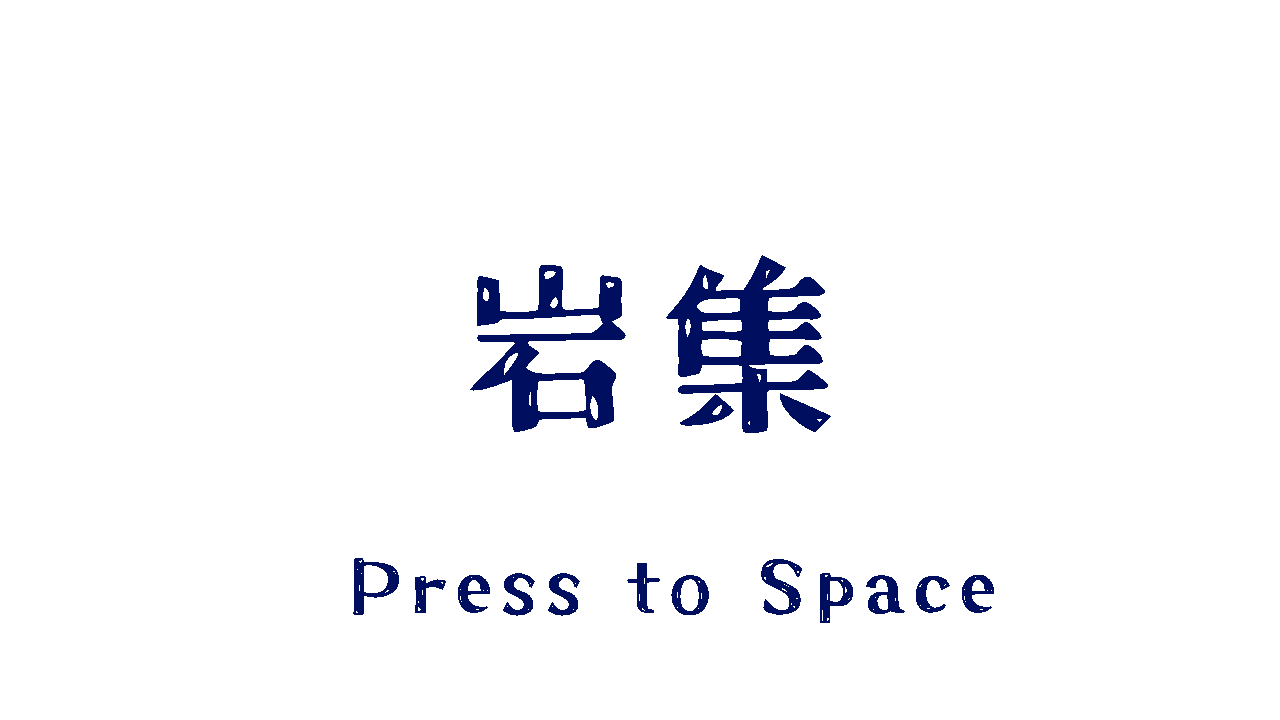
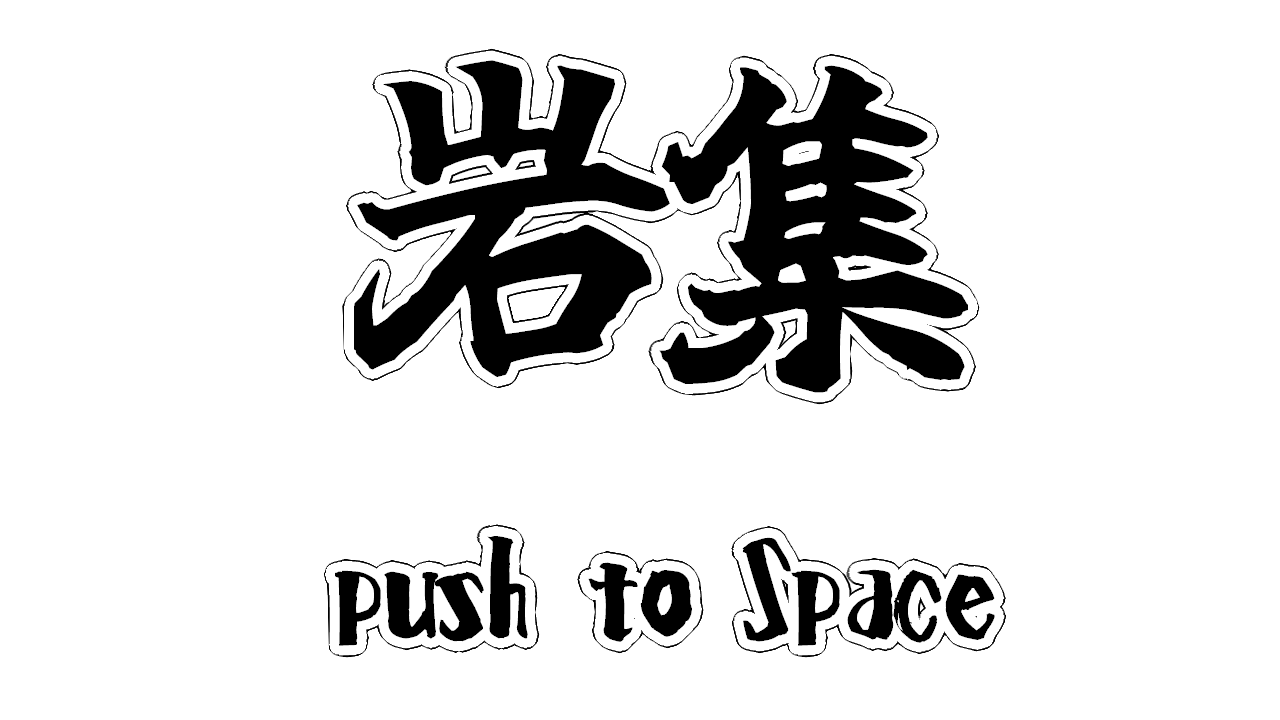
クリア画面、ゲームオーバー画面

Changed region(s): [[0.25, 0.0611, 0.7812, 0.6111], [0.25, 0.7333, 0.7812, 0.9167]]

diff --git a/project/App/Scene/GameOverScene/GameOverScene.cpp b/project/App/Scene/GameOverScene/GameOverScene.cpp
@@ -1,0 +1,67 @@
+#include "GameOverScene.h"
+
+GameOverScene::GameOverScene() {
+}
+
+GameOverScene::~GameOverScene() {
+}
+
+void GameOverScene::Initialize(DxCommon* dxCommon, PSOManager* psoManager, TextureManager* textureManager, Input* input) {
+	// 基盤ポインタの保存
+	dxCommon_ = dxCommon;
+	psoManager_ = psoManager;
+	textureManager_ = textureManager;
+	input_ = input;
+	// シーンのセットと初期化
+	nowScene_ = SceneLabel::Gameover;
+	isFinish_ = false;
+
+	// Camera
+	camera_ = std::make_unique<Camera>();
+	camera_->Initialize();
+	camera_->SetTransform({ {1.0f, 1.0f, 1.0f}, {0.2f,0.0f,0.0f}, {0.0f,4.0f,-20.0f} });
+
+	// DirectionalLight
+	dirLight_ = std::make_unique<DirectionalLightObject>();
+	dirLight_->Initialize(dxCommon_->GetDevice());
+
+	// スプライト生成
+	gameOver_ = std::make_unique<SpriteObject>(dxCommon_->GetDevice(), 1280, 720);
+	textureManager_->LoadTexture("gameOver", "resources/AL/gameOver.png");
+
+	// Skydomeの生成と初期化
+	skydome_ = std::make_unique<Skydome>();
+	skydome_->Initialize(dxCommon_, textureManager_);
+}
+
+void GameOverScene::Update() {
+	camera_->Update(input_);
+	dirLight_->Update();
+
+	if (input_->Trigger(DIK_SPACE)) {
+		nextScene_ = SceneLabel::Title;
+		isFinish_ = true;
+	}
+
+	// 各オブジェクトの更新
+	gameOver_->Update(camera_.get());
+	skydome_->Update(camera_.get());
+}
+
+void GameOverScene::Draw() {
+	// skydomeの描画
+	skydome_->Draw(dxCommon_, textureManager_, psoManager_, dirLight_.get());
+	// titleの描画
+	gameOver_->Draw(
+		dxCommon_->GetCommandList(),
+		textureManager_->GetGpuHandle("gameOver"),
+		dirLight_->GetGPUVirtualAddress(),
+		psoManager_->GetPSO("Object3D"),
+		psoManager_->GetRootSignature("Object3D"),
+		drawSprite_
+	);
+}
+
+void GameOverScene::ImGuiControl() {
+
+}

diff --git a/project/App/Scene/ClearScene/ClearScene.cpp b/project/App/Scene/ClearScene/ClearScene.cpp
@@ -1,0 +1,67 @@
+#include "ClearScene.h"
+
+ClearScene::ClearScene() {
+}
+
+ClearScene::~ClearScene() {
+}
+
+void ClearScene::Initialize(DxCommon* dxCommon, PSOManager* psoManager, TextureManager* textureManager, Input* input) {
+	// 基盤ポインタの保存
+	dxCommon_ = dxCommon;
+	psoManager_ = psoManager;
+	textureManager_ = textureManager;
+	input_ = input;
+	// シーンのセットと初期化
+	nowScene_ = SceneLabel::Clear;
+	isFinish_ = false;
+
+	// Camera
+	camera_ = std::make_unique<Camera>();
+	camera_->Initialize();
+	camera_->SetTransform({ {1.0f, 1.0f, 1.0f}, {0.2f,0.0f,0.0f}, {0.0f,4.0f,-20.0f} });
+
+	// DirectionalLight
+	dirLight_ = std::make_unique<DirectionalLightObject>();
+	dirLight_->Initialize(dxCommon_->GetDevice());
+
+	// スプライト生成
+	clear_ = std::make_unique<SpriteObject>(dxCommon_->GetDevice(), 1280, 720);
+	textureManager_->LoadTexture("clear", "resources/AL/clear.png");
+
+	// Skydomeの生成と初期化
+	skydome_ = std::make_unique<Skydome>();
+	skydome_->Initialize(dxCommon_, textureManager_);
+}
+
+void ClearScene::Update() {
+	camera_->Update(input_);
+	dirLight_->Update();
+
+	if (input_->Trigger(DIK_SPACE)) {
+		nextScene_ = SceneLabel::Title;
+		isFinish_ = true;
+	}
+
+	// 各オブジェクトの更新
+	clear_->Update(camera_.get());
+	skydome_->Update(camera_.get());
+}
+
+void ClearScene::Draw() {
+	// skydomeの描画
+	skydome_->Draw(dxCommon_, textureManager_, psoManager_, dirLight_.get());
+	// titleの描画
+	clear_->Draw(
+		dxCommon_->GetCommandList(),
+		textureManager_->GetGpuHandle("clear"),
+		dirLight_->GetGPUVirtualAddress(),
+		psoManager_->GetPSO("Object3D"),
+		psoManager_->GetRootSignature("Object3D"),
+		drawSprite_
+	);
+}
+
+void ClearScene::ImGuiControl() {
+
+}

diff --git a/project/App/Scene/SceneManager.cpp b/project/App/Scene/SceneManager.cpp
@@ -5,6 +5,8 @@ SceneManager::SceneManager() {
     scene_ = SceneLabel::Title;
     titleScene_ = std::make_unique<TitleScene>();
     playScene_ = std::make_unique<PlayScene>();
+    clearScene_ = std::make_unique<ClearScene>();
+    gameOverScene_ = std::make_unique<GameOverScene>();
     currentScene_ = playScene_.get();
 }
 
@@ -25,6 +27,12 @@ void SceneManager::Initialize(SceneLabel scene, DxCommon* dxCommon, PSOManager* 
     case SceneLabel::Play:
         currentScene_ = playScene_.get();
         break;
+    case SceneLabel::Clear:
+        currentScene_ = clearScene_.get();
+        break;
+    case SceneLabel::Gameover:
+        currentScene_ = gameOverScene_.get();
+        break;
     }
 
     // 現在のシーンに基盤を渡して初期化
@@ -43,11 +51,16 @@ void SceneManager::Update() {
         case SceneLabel::Play:
             currentScene_ = playScene_.get();
             break;
+        case SceneLabel::Clear:
+            currentScene_ = clearScene_.get();
+            break;
+        case SceneLabel::Gameover:
+            currentScene_ = gameOverScene_.get();
+            break;
         }
 
         // 次のシーンも同じ基盤システムで初期化する
         currentScene_->Initialize(dxCommon_, psoManager_, textureManager_, input_);
-        currentScene_->Update();
     }
 }
 
@@ -63,6 +76,12 @@ void SceneManager::ImGuiControl() {
         break;
     case SceneLabel::Play:
         ImGui::Text("Scene = Play");
+        break;
+    case SceneLabel::Clear:
+        ImGui::Text("Scene = Clear");
+        break;
+    case SceneLabel::Gameover:
+        ImGui::Text("Scene = GameOver");
         break;
     }
     ImGui::End();

diff --git a/project/App/Scene/GameOverScene/GameOverScene.h b/project/App/Scene/GameOverScene/GameOverScene.h
@@ -1,0 +1,35 @@
+#pragma once
+#include "Scene.h"
+#include "DirectionalLight.h"
+#include "ModelObject.h"
+#include "SpriteObject.h"
+#include "SphereObject.h"
+#include "Camera.h"
+#include "Skydome.h"
+#include <memory>
+
+class GameOverScene : public Scene {
+public:
+	GameOverScene();
+	~GameOverScene() override;
+
+	void Initialize(DxCommon* dxCommon, PSOManager* psoManager, TextureManager* textureManager, Input* input) override;
+	void Update() override;
+	void Draw() override;
+	void ImGuiControl() override;
+
+private:
+	// main.cppから移行した描画オブジェクト
+	std::unique_ptr<Camera> camera_;
+	std::unique_ptr<DirectionalLightObject> dirLight_;
+
+	// UI
+	std::unique_ptr<SpriteObject> gameOver_;
+	// skydome
+	std::unique_ptr<Skydome> skydome_;
+
+	// 描画フラグ
+	bool drawModel_ = true;
+	bool drawSprite_ = true;
+	bool drawSphere_ = true;
+};

diff --git a/project/App/Scene/ClearScene/ClearScene.h b/project/App/Scene/ClearScene/ClearScene.h
@@ -1,0 +1,35 @@
+#pragma once
+#include "Scene.h"
+#include "DirectionalLight.h"
+#include "ModelObject.h"
+#include "SpriteObject.h"
+#include "SphereObject.h"
+#include "Camera.h"
+#include "Skydome.h"
+#include <memory>
+
+class ClearScene : public Scene {
+public:
+	ClearScene();
+	~ClearScene() override;
+
+	void Initialize(DxCommon* dxCommon, PSOManager* psoManager, TextureManager* textureManager, Input* input) override;
+	void Update() override;
+	void Draw() override;
+	void ImGuiControl() override;
+
+private:
+	// main.cppから移行した描画オブジェクト
+	std::unique_ptr<Camera> camera_;
+	std::unique_ptr<DirectionalLightObject> dirLight_;
+
+	// UI
+	std::unique_ptr<SpriteObject> clear_;
+	// skydome
+	std::unique_ptr<Skydome> skydome_;
+
+	// 描画フラグ
+	bool drawModel_ = true;
+	bool drawSprite_ = true;
+	bool drawSphere_ = true;
+};

diff --git a/project/App/Skydome/Skydome.cpp b/project/App/Skydome/Skydome.cpp
@@ -2,13 +2,15 @@
 
 void Skydome::Initialize(DxCommon* dxCommon, TextureManager* textureManager) {
     // モデルの生成（PlaySceneから移行）
-    model_ = std::make_unique<ModelObject>(dxCommon->GetDevice(), "resources/AL/skydome/skydome.obj", Vector3{ 0.0f, 0.0f, 0.0f });
-
+    model_ = std::make_unique<ModelObject>(dxCommon->GetDevice(), "resources/AL/skydome/skydome.obj", Vector3{ 0.0f, 0.0f, 0.0f }, 0);
     // テクスチャのロード
     textureManager->LoadTexture("skydome", model_->GetModelData()->material.textureFilePath);
 }
 
 void Skydome::Update(Camera* camera) {
+    rotate_.y += 0.003f;
+    
+    model_->SetRotate(rotate_);
     model_->Update(camera);
 }
 

diff --git a/project/App/Scene/PlayScene/PlayScene.cpp b/project/App/Scene/PlayScene/PlayScene.cpp
@@ -79,7 +79,7 @@ void PlayScene::Initialize(DxCommon* dxCommon, PSOManager* psoManager, TextureMa
 void PlayScene::Update() {
 	// 1. プレイヤーの死亡演出が終わったかチェック
 	if (player_->IsDeadFinished()) {
-		nextScene_ = SceneLabel::Title;
+		nextScene_ = SceneLabel::Gameover;
 		isFinish_ = true;
 		return;
 	}
@@ -153,7 +153,7 @@ void PlayScene::Update() {
 		pPos.y >= goalAABB.min.y && pPos.y <= goalAABB.max.y) {
 
 		// クリアフラグを立てる
-		nextScene_ = SceneLabel::Title;
+		nextScene_ = SceneLabel::Clear;
 		isFinish_ = true;
 	}
 

diff --git a/project/App/Scene/SceneManager.h b/project/App/Scene/SceneManager.h
@@ -2,6 +2,8 @@
 #include "Scene.h"
 #include "TitleScene.h"
 #include "PlayScene.h"
+#include "ClearScene.h"
+#include "GameOverScene.h"
 #include <memory>
 
 class SceneManager {
@@ -17,6 +19,8 @@ public:
 private:
     std::unique_ptr<TitleScene> titleScene_;
     std::unique_ptr<PlayScene> playScene_;
+    std::unique_ptr<ClearScene> clearScene_;
+    std::unique_ptr<GameOverScene> gameOverScene_;
 
     SceneLabel scene_;
     Scene* currentScene_;

diff --git a/project/ZuizuiEngine/Graphics/Objects/3d/Model/ModelObject.h b/project/ZuizuiEngine/Graphics/Objects/3d/Model/ModelObject.h
@@ -12,7 +12,8 @@ class ModelObject : public Object3D {
 public:
     ModelObject(ID3D12Device* device,
         const std::string& filename,
-        const Vector3& initialPosition = { 0.0f, 0.0f, 0.0f }); // ★ 初期位置追加
+        const Vector3& initialPosition = { 0.0f, 0.0f, 0.0f },
+        const int lightMode = 2);
 
     // 頂点バッファビュー取得
     D3D12_VERTEX_BUFFER_VIEW GetVBV() const { return vbv_; }

diff --git a/project/ZuizuiEngine/Graphics/Objects/3d/Model/ModelObject.cpp b/project/ZuizuiEngine/Graphics/Objects/3d/Model/ModelObject.cpp
@@ -5,8 +5,9 @@
 
 ModelObject::ModelObject(ID3D12Device* device,
     const std::string& filename,
-    const Vector3& initialPosition)
-    : Object3D(device, 2) // 2 = ライティング有効
+    const Vector3& initialPosition,
+    const int lightMode)
+    : Object3D(device, lightMode) // 2 = ライティング有効
 {
     // 初期位置をセット
     transform_.translate = initialPosition;

diff --git a/project/App/Skydome/Skydome.h b/project/App/Skydome/Skydome.h
@@ -15,4 +15,5 @@ public:
 
 private:
     std::unique_ptr<ModelObject> model_;
+    Vector3 rotate_;
 };
